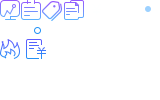
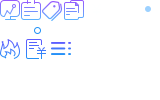
行业报告

Changed region(s): [[0.3125, 0.42, 0.4688, 0.57]]

diff --git a/css/dn.css b/css/dn.css
@@ -9,6 +9,7 @@ ul,ol,dl,dt,dd,p,img{ display:block; border:0;list-style:none; }
 :-ms-input-placeholder { /* Internet Explorer 10+ */color:#ccc;}
 /*index*/
 .m_t10{margin-top:10px;}
+.m_t20{margin-top:20px;}
 .m_r20{margin-right:20px;}
 .dn_ico{background-image: url(../img/dn/dn_ico.png);  background-repeat: no-repeat;}
 .dn_l_all{width:882px;  float:left;}
@@ -27,7 +28,7 @@ ul,ol,dl,dt,dd,p,img{ display:block; border:0;list-style:none; }
 .dn_info_list_show{width:100%; overflow: hidden; padding-right:20px;}
 .dn_info_list_show_l{margin-top:10px; margin-bottom:24px; float:left; width:123px; border:1px solid #eff0f2; border-radius:10px; height:77px}
 .dn_info_list_show_l img{width:121px; height:75px;}
-.dn_sy_line{border-bottom:1px solid #f0f0f0; width:100%;  height:1px;}
+.dn_sy_line{border-bottom:1px solid #f0f0f0; width:100%;  height:1px; overflow: hidden;}
 .dn_info_list_show_r{margin-top:0px; margin-left:10px;float:left; width:706px;}
 .dn_info_list_tit{font-size:16px; font-weight: bold; padding-top:24px;}
 .dn_info_list_cen{font-size:14px; color:#666666; height: 40px;    overflow: hidden;margin-top:15px; line-height:20px;}
@@ -35,9 +36,18 @@ ul,ol,dl,dt,dd,p,img{ display:block; border:0;list-style:none; }
 .dn_info_list_ic span{padding-left:10px;}
 .dn_info_list_show_noimg{padding-right:20px;}
 .no_border{border:0;}
+.hot_speech{width:255px;     z-index: 98; background-color:#313749; position:absolute; right:0px; top: 58px;}
+/*向上*/
+.triangle_border_up{ width:0; height:0; margin:-5px auto; position:relative;}
+.triangle_border_up span{ display:block;  width:0; height:0; border-width:0 8px 8px; border-style:solid;   border-color:transparent transparent #0e182f;/*透明 透明  黄*/  position:absolute; top:0px; left:0px;}
+/*向上*/
+.hot_speech_all{padding-left:20px; overflow:hidden; font-size:12px; padding-right:20px; padding-bottom:20px; padding-top:25px; color:#fff;}
+.hot_speech_all>ul{margin-left:-20px; margin-top:8px;}
+.hot_speech_all>ul>li{float:left; margin-left:20px; cursor:pointer; margin-top:12px; height:20px; line-height:20px; padding-left:15px; padding-right:20px; border-radius:5px; background-color:#1c4baa;}
 .dn_ico_search{background-position: -106px 0px; width: 21px; height: 22px; display: inline-block; cursor:pointer; color:#fff; float:left; margin-top:26px; margin-left: 60px;}
 .seek_all{background-color:#ff943e; cursor:pointer; color:#fff;height:36px; padding-left:20px; padding-right:20px; float:left; line-height:36px; font-size:16px; margin-top:16px; border-radius:4px;}
 .dn_ico_seek{background-position: -86px 0px; width: 21px; height: 22px; display: inline-block; float:left;    margin-top: 7px;     margin-right: 10px; }
+.dn_ico_report_list{background-position:-51px -39px; width: 21px; height: 22px; display: inline-block; float:left; margin-left:20px;}
 .dn_ico_equity_trading{background-position: -25px -38px; width: 21px; height: 22px; display: inline-block; float:left; margin-left:20px;}
 .dn_ico_lable{background-position: 0px -38px; width: 21px; height: 20px; display: inline-block; float:left; margin-left:20px;}
 .dn_ico_report{background-position: -63px 0px; width: 21px; height: 20px; display: inline-block; float:left; margin-left:20px;}
@@ -89,3 +99,25 @@ ul,ol,dl,dt,dd,p,img{ display:block; border:0;list-style:none; }
 .equity_trading_r_cen{font-size:12px; color:#666666}
 .news_click{font-size:12px; color:#999999; padding-left:20px;}
 .news_click_on{color:#2393f7;}
+/*行研报告*/
+.report_detailed{padding:40px; overflow:hidden;}
+.report_detailed>ul>li{font-size:16px; margin-top:35px; color:#666666}
+.report_detailed>ul>li img{max-width:100%; text-align:center; margin-left: auto; margin-right: auto;}
+.report_detailed_tit{font-size:30px; color:#333;}
+.report_detailed_time{font-size:12px; color:#999; margin-top:30px;}
+.report_detailed_time span{margin-right:18px;}
+.report_detailed_head{background-color:#f1f1f1; border-left:3px solid #3582fa; overflow:hidden; width:100%; padding-top:20px; padding-bottom:20px; margin-top:28px;}
+.report_detailed_head_img{ width:66px; margin-left:30px; margin-right:30px; float:left;}
+.report_detailed_head_name{font-size:14px; color:#333333; margin-top:9px; text-align:center;}
+.report_detailed_head_img img{width:66px; height:66px; border-radius:33px;}
+.report_detailed_head_img>ul>li{margit-top:}
+.report_detailed_head_cen{width:625px; float:left; font-size:12px; color:#666666; line-height:20px;}
+.report_list_img img{width:66px; height:66px; border-radius:33px;}
+.report_list_img{float:left; padding-top:30px; padding-bottom:30px;}
+.report_list_all{width:100%; overflow:hidden;     background-color: #fff;  border-radius: 10px;}
+.report_list_all>ul>li{padding-left:20px; padding-right:20px; overflow:hidden;}
+.report_list_cen{width:1115px; float:right;  padding-top:30px; padding-bottom:30px;}
+.report_list_cen_tit{font-size:16px; color:#333;}
+.report_list_cen_time{font-size:12px; color:#999; margin-top:10px;}
+.report_list_cen_time span{margin-right:20px;}
+.report_list_cen_c{font-size:14px; color:#666; margin-top:20px;}

diff --git a/report_detailed.html b/report_detailed.html
@@ -1,0 +1,83 @@
+<!doctype html>
+<html>
+<head>
+	<meta charset="utf-8">
+	<title>行业报告详情</title>
+	<!--basis-->
+	{(dn_basis.html)}
+</head>
+
+<body>
+{(header.html)}
+<div class="container m_t20">
+	<div class="dn_l_all">
+		<div class="dn_l">
+			<div  class="dnsy_tit">
+				<div class="news_click"><span>首页</span>><span>研究报告</span>><span class="news_click_on">正文</span></div>
+			</div>
+			<div class="report_detailed">
+				<div class="report_detailed_tit">从Dropbox、Udacity和Razer看美国互联网工具、在线教育和智能硬件独角兽</div>
+				<div class="report_detailed_time"><span>2017年10月12日</span><span>作者：李瑶</span><span>来源：星河研究院</span></div>
+				<div class="report_detailed_head">
+					<div class="report_detailed_head_img">
+						<ul>
+							<li><img src="img/dn/l.png"></li>
+							<li class="report_detailed_head_name">李瑶</li>
+						</ul>
+					</div>
+					<div class="report_detailed_head_cen">
+						<ul>
+							<li>星河研究院研究经理，哥伦比亚大学工学博士</li>
+							<li>关注互联网重构传统产业的研究</li>
+							<li>持续跟踪国外产业互联网相关的前沿科技和创业热点</li>
+							<li>希望以专业的分析和洞察持续奉献产业互联网的行研干货</li>
+						</ul>
+					</div>
+				</div>
+				<ul>
+					<li>
+						几年前，全球只有一两家公司能冠以“独角兽”之名，今天在资本的蜂拥下全球已经诞生了两百多家独角兽，虽然“独角兽”含义中的珍稀之意已经不复存在，但不可否认的是独角兽公司的发展和命运对于风险投资者和整个创投圈都具有非常重要的意义，因此我们才精心策划了这样一个系列栏目想要将美国的103家独角兽全部为你梳理一遍
+					</li>
+					<li>
+						虽然谈独角兽的很多，但是真正能踏踏实实把所有独角兽进行一个系统性梳理的却凤毛麟角，在这56天中我们这个5人的团队用了将近300个人时，认真研究并整理了17个垂直行业的103家独角兽，他们当中不仅有Uber、Airbnb、WeWork和Pinterest这样爆发式增长的行业巨头，还有诸如Cloudera、Jawbone这样被迫流血上市或估值腰斩的悲情英雄。它们一个个真实的案例，让这八篇文章每一篇都被36Kr和虎嗅等头部媒体刊登，并且在36kr和虎嗅两大媒体上总阅读量已经突破了19.17万和12.39万。
+					</li>
+					<li><img src="img/dn/banner.jpg"></li>
+					<li>
+						我们做这个系列文章初心就是希望能通过对每一个领域、每一家独角兽的介绍和分析，能给你带来新的认知、新的理解和新的感悟，与星河融快一起发现那些我们始终看好的——通过大数据、云计算、人工智能等创新技术，提升行业效率创造出增量价值的独角兽。
+					</li>
+					<li><img src="img/dn/l.png"></li>
+					<li>
+						在这几个领域里，智能硬件领域的Jawbone和Razer是成为独角兽花费时间最长的，都在10年左右，教育领域其次，平均在8年左右，互联网工具领域所用的时间最短，在6年左右。
+					</li>
+				</ul>
+			</div>
+		</div>
+	</div>
+	<div class="dn_r_all">
+				
+		<div class="dn_r">
+			<div  class="dnsy_tit no_border">
+				<div><span class="dn_ico dn_ico_report_list"></span><span class="dnsy_tit_size">更多报告</span></div>
+			</div>
+			<div class="report_all">
+				<ul>
+					<li>
+						<p><a href="#">从dropbox、Udacity和Razer看美国互联网工具、在线教育和智能硬件独角兽</a></p>
+					</li>
+					<li>
+						<p><a href="#">在线教育和智能硬件独角兽</a></p>
+					</li>
+				</ul>
+			</div>
+		</div>
+	</div>
+
+</div>
+
+
+
+</body>
+
+
+
+</html>

diff --git a/report_list.html b/report_list.html
@@ -1,0 +1,51 @@
+<!doctype html>
+<html>
+<head>
+	<meta charset="utf-8">
+	<title>行业报告列表</title>
+	<!--basis-->
+	{(dn_basis.html)}
+</head>
+
+<body>
+{(header.html)}
+<div class="container m_t20">
+	<div class="report_list_all">
+		<ul>
+			<li>
+				<div class="report_list_img"><img src="img/dn/l.png"></div>
+				<div class="report_list_cen">
+					<ul>
+						<li class="report_list_cen_tit">摩拜CEO王晓峰：所有困难，都是因为人不行</li>
+						<li class="report_list_cen_time"><span>2017年10月18日</span><span>作者：李瑶</span><span>来源：星河研究院</span></li>
+						<li class="report_list_cen_c">十牛校园将重点加大在技术研发和产品服务方面的投入，为全国代理商签约学校,十牛校园将重点加大在技术研发和产品服务方面的投入量，为全国代商签约学校十牛校园将重点加大在技术研发和产品服务。十牛校园将重点加大在技术研发和产品服务方面的投入，为全国代理商签约学校,十牛校园将重点加大在技术研发和产品服务方面的投入量，为全国代商签约学校十牛校园将重点加大在技术研发和产品服务。十牛校园将重点加大在技术研发和产品服务方面的投入，为全国代理商签约学校,十牛校园...</li>
+					</ul>
+				</div>
+				<div class="dn_sy_line"></div>
+			</li>
+			<li>
+				<div class="report_list_img"><img src="img/dn/l.png"></div>
+				<div class="report_list_cen">
+					<ul>
+						<li class="report_list_cen_tit">摩拜CEO王晓峰：所有困难，都是因为人不行</li>
+						<li class="report_list_cen_time"><span>2017年10月18日</span><span>作者：李瑶</span><span>来源：星河研究院</span></li>
+						<li class="report_list_cen_c">十牛校园将重点加大在技术研发和产品服务方面的投入，为全国代理商签约学校,十牛校园将重点加大在技术研发和产品服务方面的投入量，为全国代商签约学校十牛校园将重点加大在技术研发和产品服务。十牛校园将重点加大在技术研发和产品服务方面的投入，为全国代理商签约学校,十牛校园将重点加大在技术研发和产品服务方面的投入量，为全国代商签约学校十牛校园将重点加大在技术研发和产品服务。十牛校园将重点加大在技术研发和产品服务方面的投入，为全国代理商签约学校,十牛校园...</li>
+					</ul>
+				</div>
+				<div class="dn_sy_line"></div>
+			</li>
+		</ul>
+		
+		
+	</div>
+	
+
+</div>
+
+
+
+</body>
+
+
+
+</html>

diff --git a/css/basis.css b/css/basis.css
@@ -151,8 +151,8 @@ input{outline: none;}
 .nav_nav_name_x{ font-size:12px; color:#999;}
 .nav_two .nav_on{ border-bottom:4px solid #f78123;}
 .nav_all_seek{float:left;     margin-left: 76px;}
-.nav_all_input{ width:275px; height:32px; background-color:#071026; display:none; border-radius:15px; float:left; margin-top:18px; margin-left:70px;}
-.nav_all_input input{ width:238px; margin-left:8px; text-indent:5px; float:left; height:30px;    color: #fff; font-size: 12px; background-color:#071026; border:0;border-radius:5px;}
+.nav_all_input{ width:255px; height:32px; background-color:#071026; display:none; border-radius:15px; float:left; position: relative; margin-top:20px; margin-left:70px;}
+.nav_all_input input{ width:218px; margin-left:8px; text-indent:5px; float:left; height:30px;    color: #fff; font-size: 12px; background-color:#071026; border:0;border-radius:5px;}
 .nav_all_input .brain_ico_seek{    margin-top: 7px;}
 .nav_all_name{ float:right; color:#fff; font-size:12px; margin-top:18px;height: 36px; cursor:pointer;}
 .brain_ico_name{background-position:-28px -14px; width:16px; height:16px; display:inline-block;     margin-top: -3px;}

diff --git a/header.html b/header.html
@@ -16,8 +16,25 @@
 			<div  class="dn_ico dn_ico_search"></div>
 		</div>
 		<div class="nav_all_input">
-            <input type="text" class="" placeholder="搜企业项目/投融动态/投资机构"/>
+            <input type="text" class="" id="nav_all_input" placeholder="请输入关键搜索词"/>
             <span class="brain_ico brain_ico_seek"></span>
+            
+            <!-- 热词 -->
+			<div class="hot_speech">
+				<div class="triangle_border_up">
+				    <span></span>
+				</div>
+				<div class="hot_speech_all">
+					<div>热门搜索</div>
+					<ul>
+						<li>共享充电宝</li>
+						<li>共享充电宝</li>
+						<li>共享充电宝</li>
+						<li>共享充电宝</li>
+						<li>共享充电宝</li>
+					</ul>
+				</div>
+			</div>
         </div>
 		<div class="nav_all_name">
 			<span id="id_name"></span>
@@ -26,6 +43,7 @@
 				<li><a href="http://ctdnrc.galaxyinternet.com/user/userlogin/logout">退出</a></li>
 			</ul>
 		</div>
+		
 	</div>
 
 </div>

diff --git a/js/common.js b/js/common.js
@@ -522,3 +522,15 @@ $.extend($,{
  		$('.list_click_ul').hide();
  	}
  })
+ //导航搜索相关
+$('body').delegate('.dn_ico_search','click', function(event){
+ 	event.stopPropagation();
+ 	$('.nav_all_seek').hide();
+ 	$('.nav_all_input').show();
+ 	$('#nav_all_input').focus();
+})
+/*$('body').delegate('#nav_all_input','focusout', function(event){
+ 	event.stopPropagation();
+ 	$('.nav_all_seek').show();
+ 	$('.nav_all_input').hide();
+})*/
